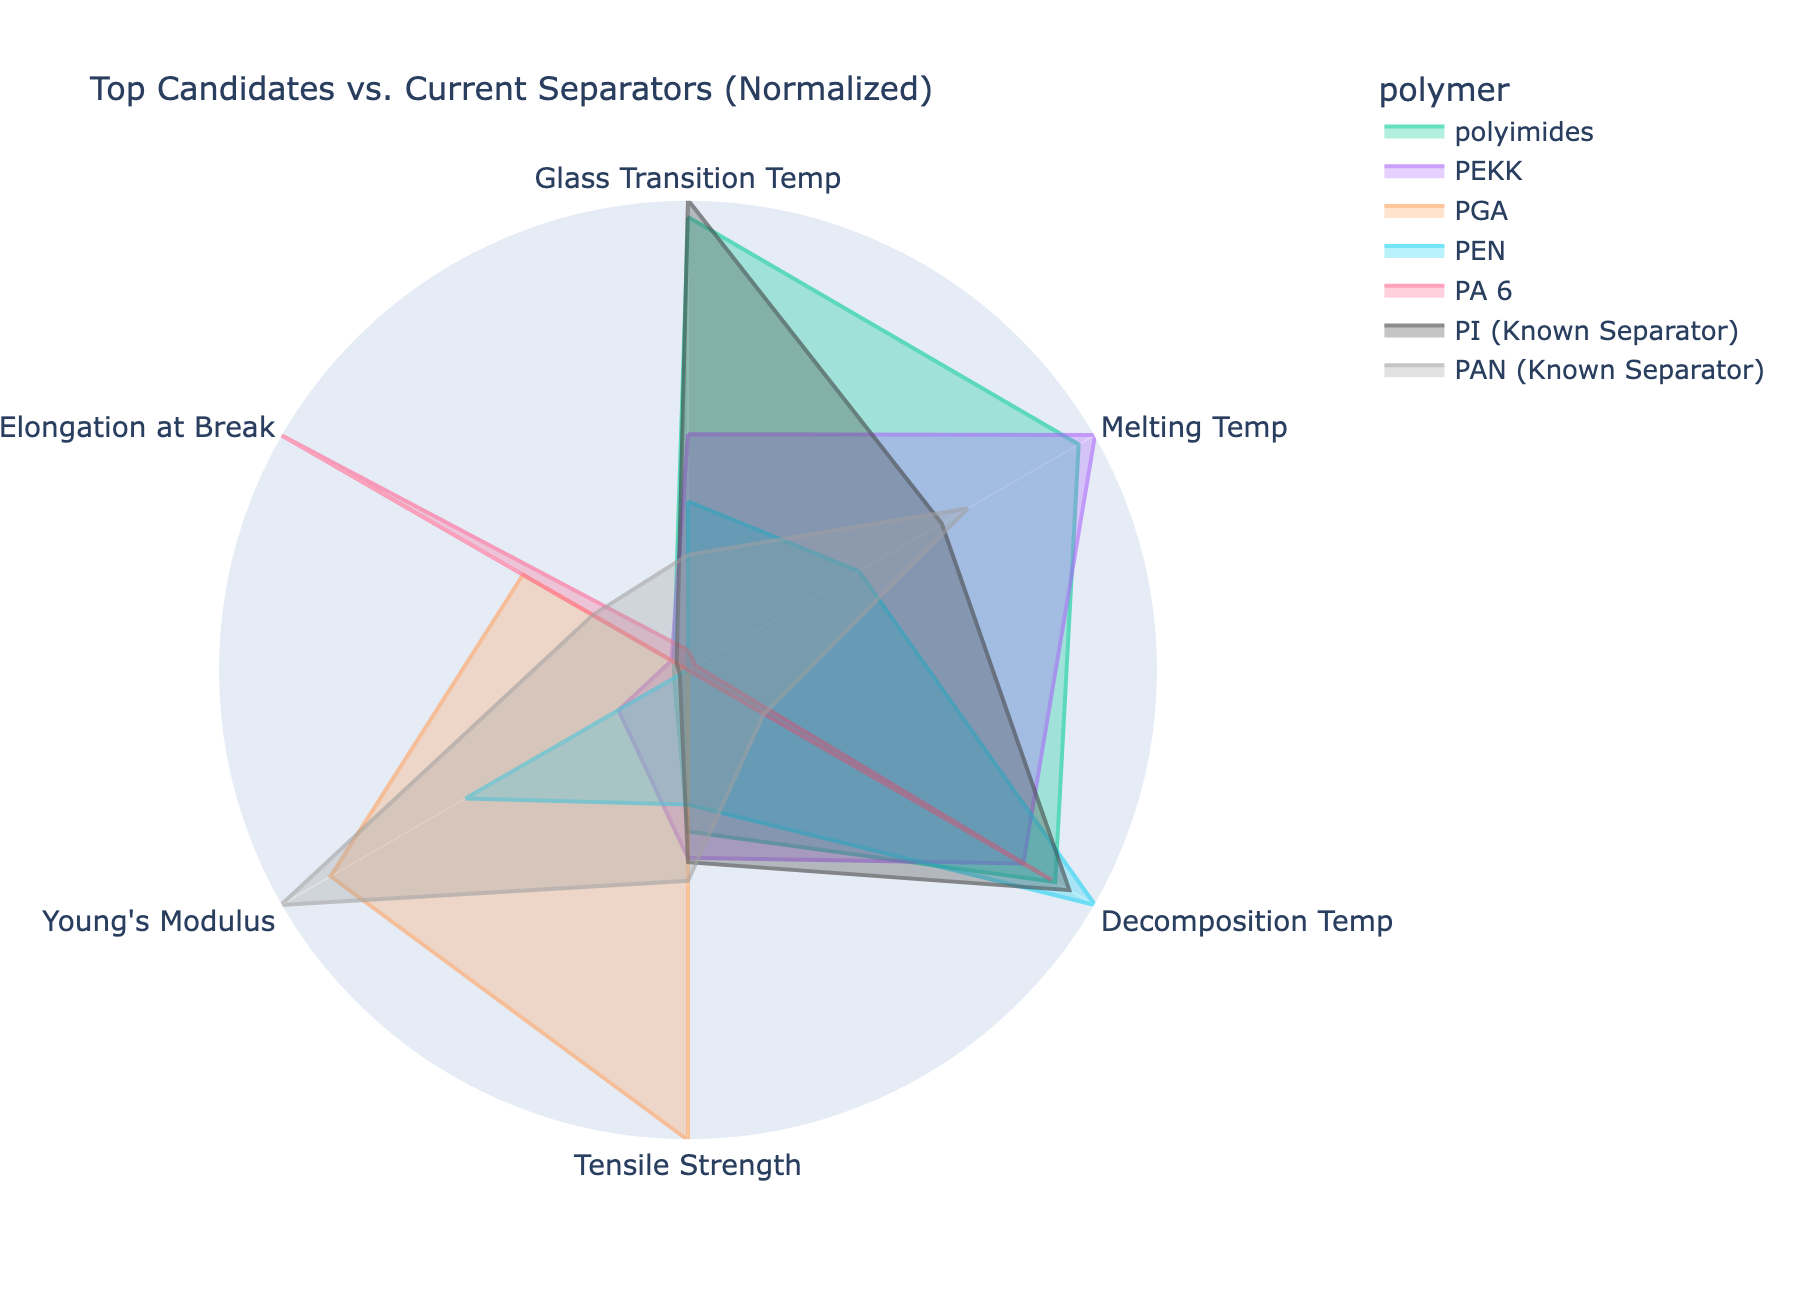
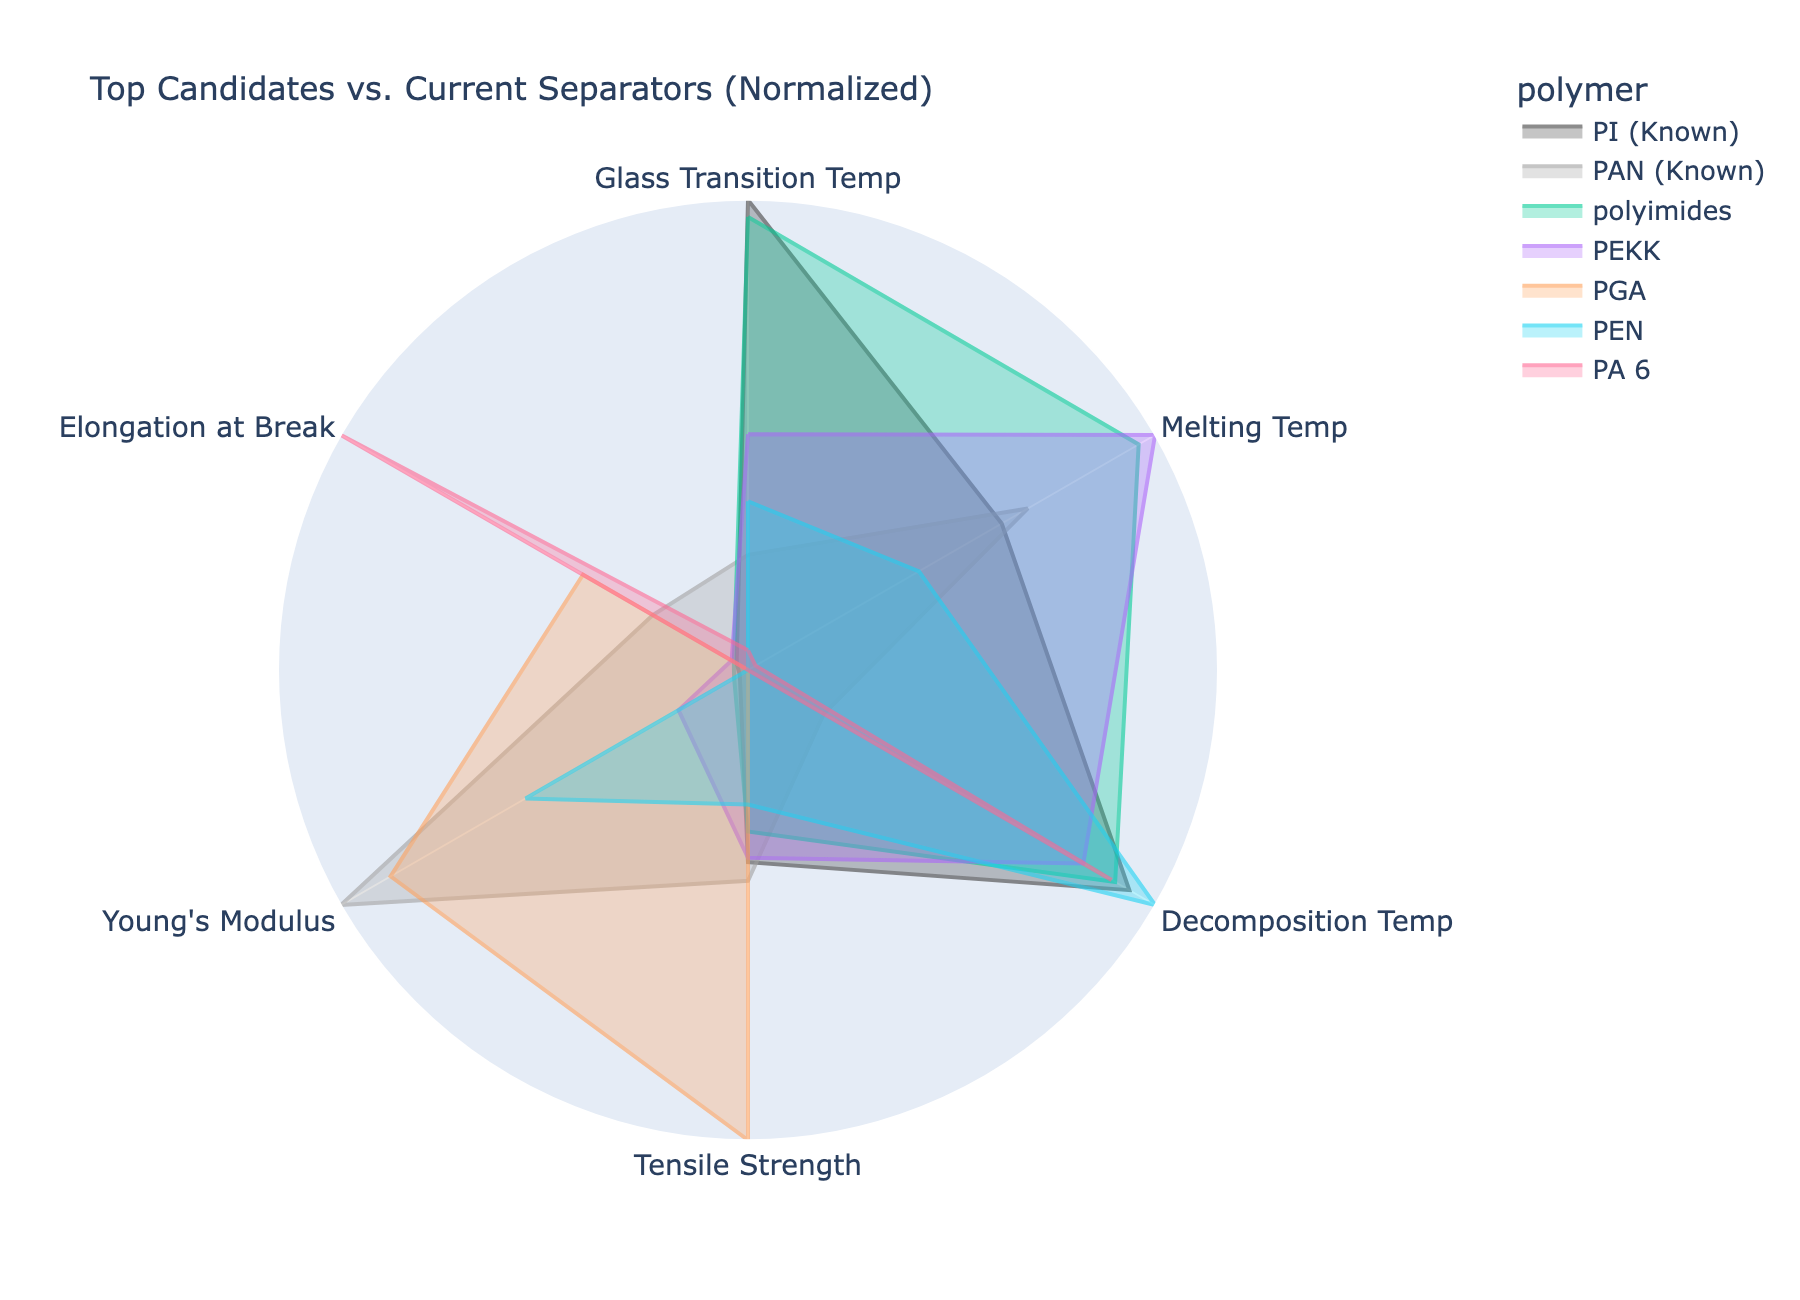
V3

Changed region(s): [[0.0, 0.1231, 0.8089, 0.9231], [0.7467, 0.0615, 0.9644, 0.3077]]

diff --git a/plot_candidates.py b/plot_candidates.py
@@ -29,31 +29,20 @@ top_mod = df_top[df_top["predicted_proba_safe"] < 1.0].copy()
 # ============================================================
 
 # Build a combined DataFrame with group labels for plotly
-safe_train = df_training[df_training["safety"] == "safe"][["Tg (K)", "Tm (K)", "polymer"]].copy()
-safe_train = safe_train.rename(columns={"polymer": "Name"})
-safe_train["group"] = "Known safe"
-
-unsafe_train = df_training[df_training["safety"] == "unsafe"][["Tg (K)", "Tm (K)", "polymer"]].copy()
-unsafe_train = unsafe_train.rename(columns={"polymer": "Name"})
-unsafe_train["group"] = "Known unsafe"
-
 top_high_plot = top_high[["Tg (K)", "Tm (K)", "Name"]].copy()
-top_high_plot["group"] = "Top candidates (100% safe)"
+top_high_plot["group"] = "Top candidates (100% confidence)"
 
 top_mod_plot = top_mod[["Tg (K)", "Tm (K)", "Name"]].copy()
-top_mod_plot["group"] = "Candidates (50-99% safe)"
+top_mod_plot["group"] = "Candidates (50-99% confidence)"
 
-df_plot = pd.concat([safe_train, unsafe_train, top_high_plot, top_mod_plot],
-                    ignore_index=True)
+df_plot = pd.concat([top_high_plot, top_mod_plot], ignore_index=True)
 
 fig = px.scatter(df_plot, x="Tg (K)", y="Tm (K)", color="group",
                  hover_data=["Name"],
                  title="Top Predicted Safe Separator Polymer Candidates",
                  color_discrete_map={
-                     "Known safe": "green",
-                     "Known unsafe": "red",
-                     "Top candidates (100% safe)": "dodgerblue",
-                     "Candidates (50-99% safe)": "lightskyblue",
+                     "Top candidates (100% confidence)": "dodgerblue",
+                     "Candidates (50-99% confidence)": "lightskyblue",
                  })
 # Label a curated set of top candidates with custom offsets to avoid overlap
 label_offsets = {
@@ -80,9 +69,10 @@ for _, row in top_high.iterrows():
             bgcolor="white", bordercolor="gray", borderpad=2,
         )
 
-fig.update_layout(width=900, height=650)
-fig.update_xaxes(title_text="Glass Transition Temperature (K)")
-fig.update_yaxes(title_text="Melting Temperature (K)")
+fig.update_layout(width=700, height=450)
+fig.update_traces(marker=dict(size=9))
+fig.update_xaxes(title_text="Glass Transition Temperature (K)", range=[150, 600], dtick=50)
+fig.update_yaxes(title_text="Melting Temperature (K)", range=[280, 650])
 fig.write_image("figures/top_candidates.png", scale=2)
 print("Saved figures/top_candidates.png")
 
@@ -167,21 +157,22 @@ radar_labels = ["Glass Transition Temp", "Melting Temp",
 # Polymers to show: top 5 candidates + PI as baseline
 candidate_names = ["polyimides", "PEKK", "PGA", "PEN", "PA 6"]
 
-# Build a combined DataFrame of raw values
+# Build a combined DataFrame — baselines first so they render behind candidates
 radar_rows = []
+
+# Add PI and PAN first (drawn first = behind)
+pi = df_training[df_training["polymer"] == "polyimide"].iloc[0]
+radar_rows.append({"polymer": "PI (Known)",
+                   **{f: pi[f] for f in radar_features}})
+
+pan = df_training[df_training["polymer"] == "PAN"].iloc[0]
+radar_rows.append({"polymer": "PAN (Known)",
+                   **{f: pan[f] for f in radar_features}})
+
 for name in candidate_names:
     if name in top_for_bar.index:
         row = top_for_bar.loc[name, radar_features]
         radar_rows.append({"polymer": name, **row.to_dict()})
-
-# Add PI and PAN as known safe baselines
-pi = df_training[df_training["polymer"] == "polyimide"].iloc[0]
-radar_rows.append({"polymer": "PI (Known Separator)",
-                   **{f: pi[f] for f in radar_features}})
-
-pan = df_training[df_training["polymer"] == "PAN"].iloc[0]
-radar_rows.append({"polymer": "PAN (Known Separator)",
-                   **{f: pan[f] for f in radar_features}})
 
 df_radar = pd.DataFrame(radar_rows)
 
@@ -202,8 +193,8 @@ df_radar_long["property"] = df_radar_long["property"].map(label_map)
 fig = px.line_polar(df_radar_long, r="value", theta="property",
                     color="polymer", line_close=True,
                     color_discrete_map={
-                        "PI (Known Separator)": "#404040",
-                        "PAN (Known Separator)": "#a0a0a0",
+                        "PI (Known)": "#404040",
+                        "PAN (Known)": "#a0a0a0",
                     },
                     title="Top Candidates vs. Current Separators (Normalized)")
 fig.update_traces(fill="toself", opacity=0.6, marker=dict(size=8))

diff --git a/train_model.py b/train_model.py
@@ -190,7 +190,8 @@ fig = px.scatter(df_all_plot, x="Tg (K)", y="Tm (K)", color="group",
                      "Known safe": "green",
                      "Known unsafe": "red",
                  })
-fig.update_xaxes(title_text="Glass Transition Temperature (K)")
-fig.update_yaxes(title_text="Melting Temperature (K)")
+fig.update_layout(width=700, height=450)
+fig.update_xaxes(title_text="Glass Transition Temperature (K)", range=[150, 600], dtick=50)
+fig.update_yaxes(title_text="Melting Temperature (K)", range=[280, 650])
 fig.write_image("figures/screening_results.png", scale=2)
 print("Saved figures/screening_results.png")
